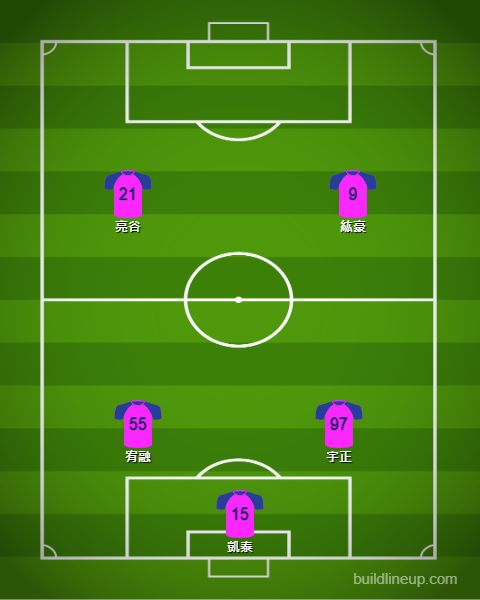
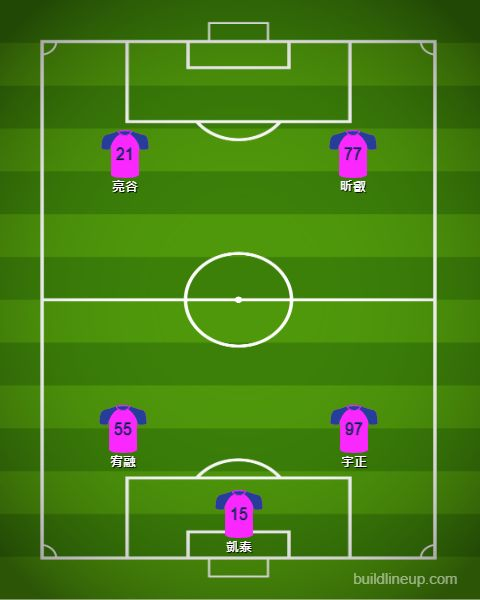
update match formation image

diff --git a/js/match.js b/js/match.js
@@ -5910,8 +5910,8 @@ new Vue({
                     number: 10,
                     name: '善捷'
                 }, {
-                    number: 77,
-                    name: '昕叡'
+                    number: 20,
+                    name: '瑀東'
                 }],
                 subTeam: 'ZQ超能勇士',
                 final_score: '1 : 4',
